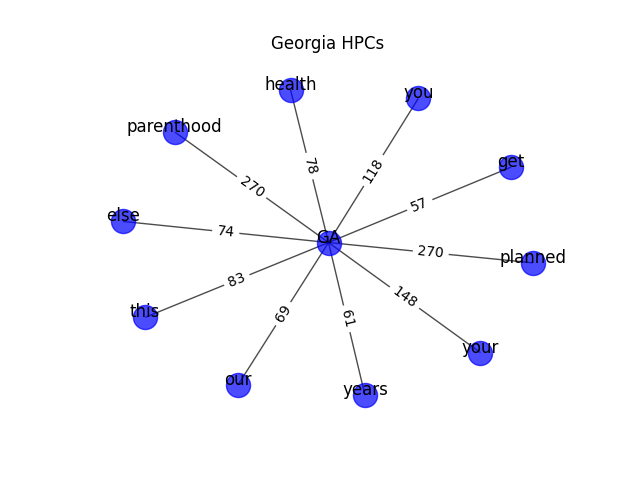
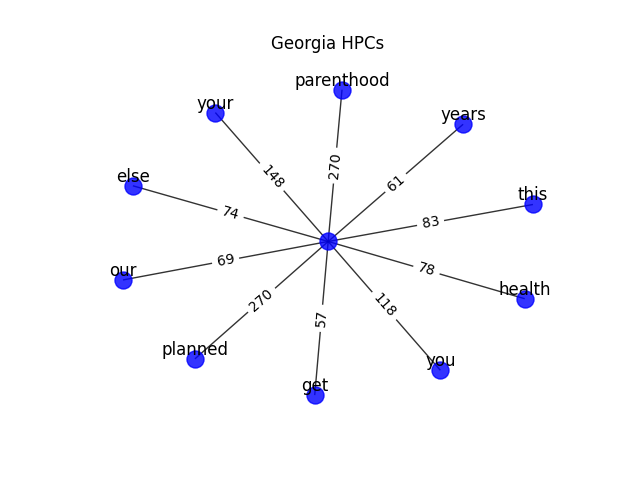
edit options

diff --git a/truth_inquery/crawler/graphs.py b/truth_inquery/crawler/graphs.py
@@ -10,12 +10,12 @@ from crawler import CPCIN, CPCOUT, HPCIN, HPCOUT, STATES
 random.seed(1234)
 OPTIONAL = {
     'CPC':{'node_color': 'red',
-           'alpha': 0.7,
-           'node_size': 300,
+           'alpha': 0.8,
+           'node_size': 150,
            'width': 1},
     'HPC':{'node_color': 'blue',
-           'alpha': 0.7,
-           'node_size': 300,
+           'alpha': 0.8,
+           'node_size': 150,
            'width': 1}
     }
 
@@ -78,7 +78,7 @@ def initialize_graph(state, clinic):
     
     # Initialize graph
     G = nx.Graph()
-    G.add_node(state, label=state)
+    G.add_node(state)
 
     return G, df
 
@@ -147,7 +147,7 @@ if __name__ == "__main__":
     plt.title(STATES[state]+" "+clinic+"s")
     nx.draw(G, pos, **OPTIONAL[clinic])
     nx.draw_networkx_labels(G, pos, nx.get_node_attributes(G, 'label'), \
-                                    verticalalignment='baseline')
+                                    verticalalignment='bottom')
     nx.draw_networkx_edge_labels(G,pos,edge_labels=nx.get_edge_attributes(G,'label'))
     
     plt.savefig(filename)
